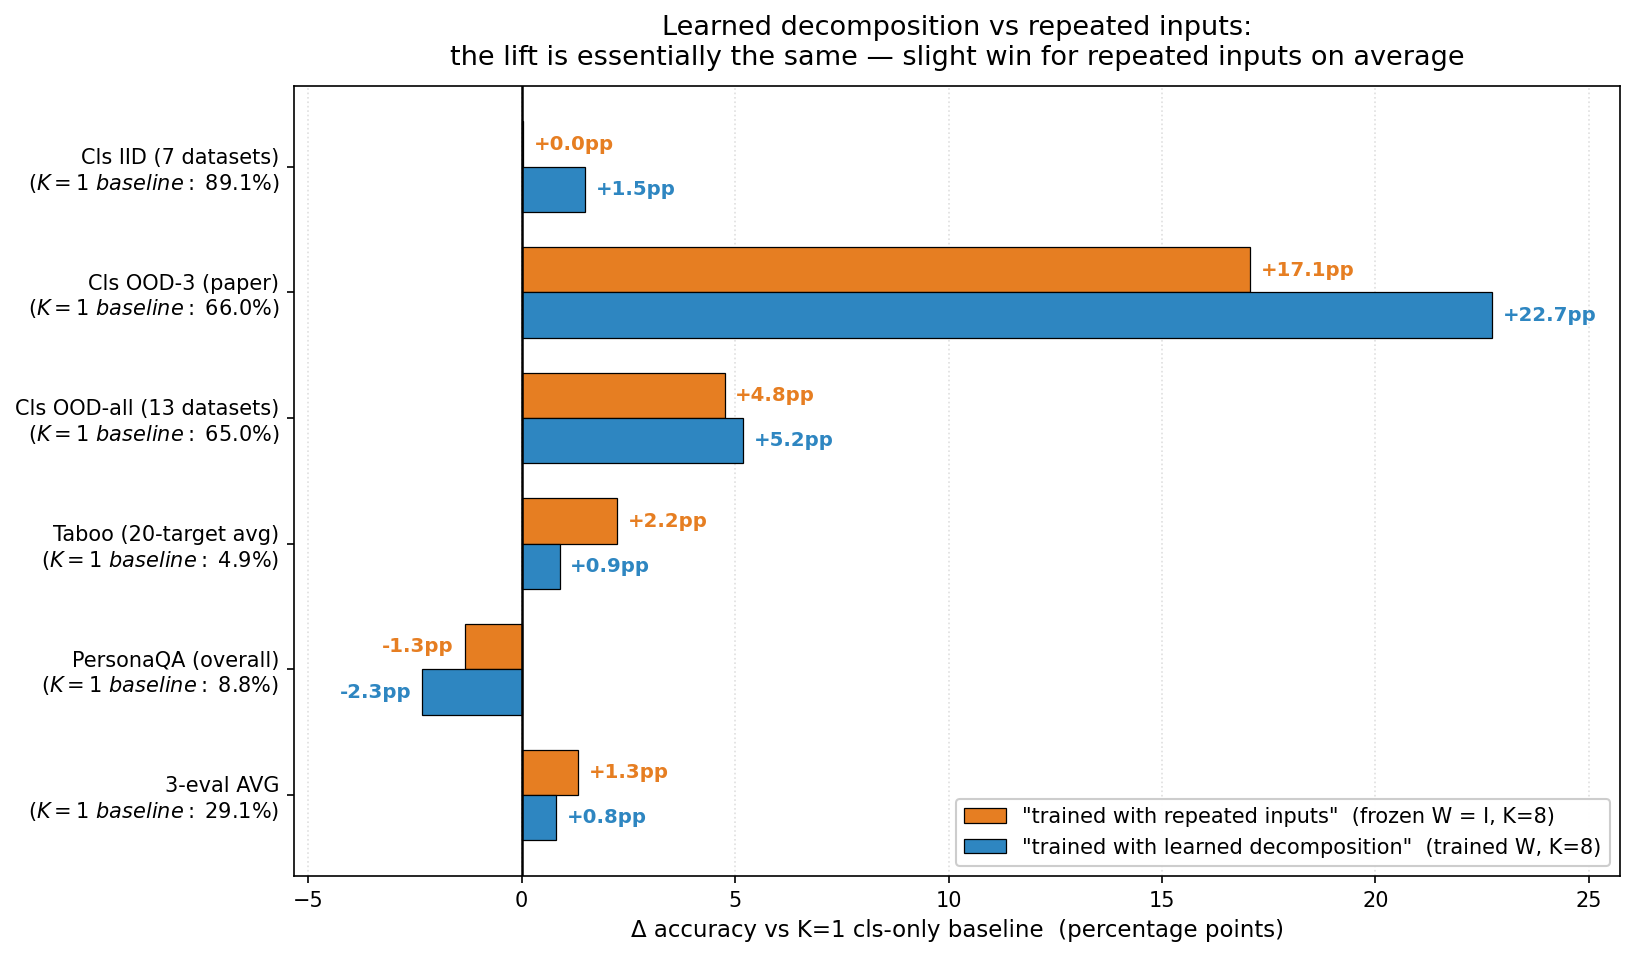
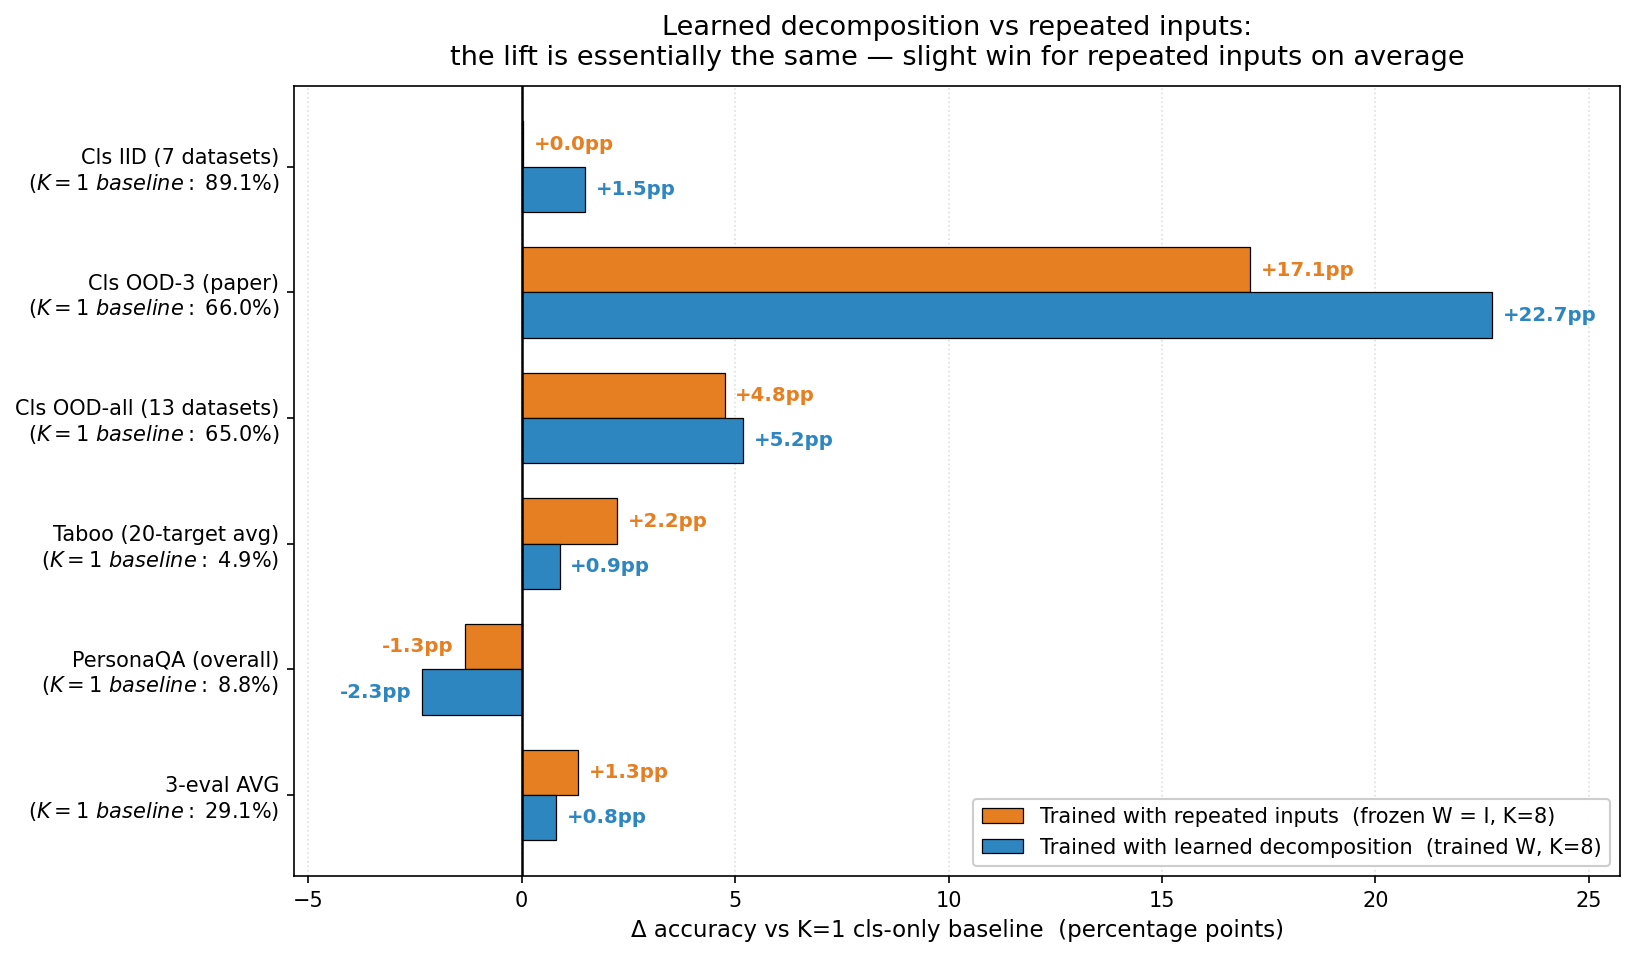
Drop quotes from legend labels (read as scare-quotes)

Changed region(s): [[0.5615, 0.8182, 0.9358, 0.9091]]

diff --git a/experiments/plot_decomp_vs_repeated.py b/experiments/plot_decomp_vs_repeated.py
@@ -111,10 +111,10 @@ def main() -> None:
     learned_color = "#2E86C1"    # blue
 
     ax.barh(y + height/2, deltas_frozen, height,
-            label='"trained with repeated inputs"  (frozen W = I, K=8)',
+            label="Trained with repeated inputs  (frozen W = I, K=8)",
             color=repeated_color, edgecolor="black", linewidth=0.6, zorder=3)
     ax.barh(y - height/2, deltas_trained, height,
-            label='"trained with learned decomposition"  (trained W, K=8)',
+            label="Trained with learned decomposition  (trained W, K=8)",
             color=learned_color, edgecolor="black", linewidth=0.6, zorder=3)
 
     # Zero line = K=1 baseline
